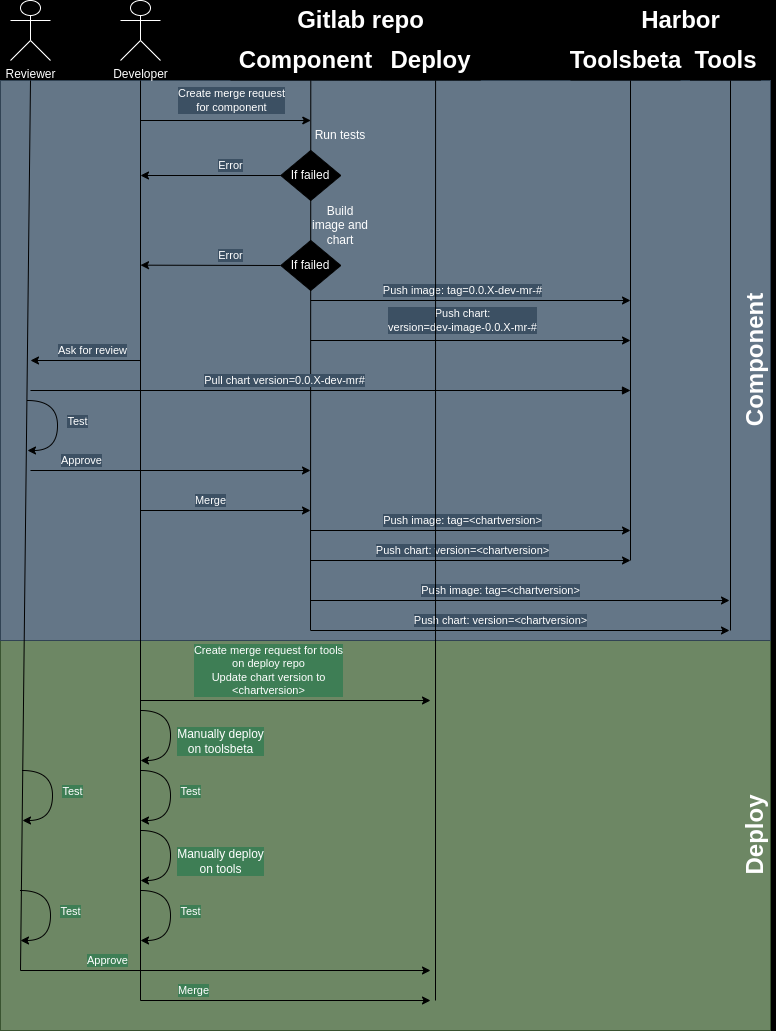
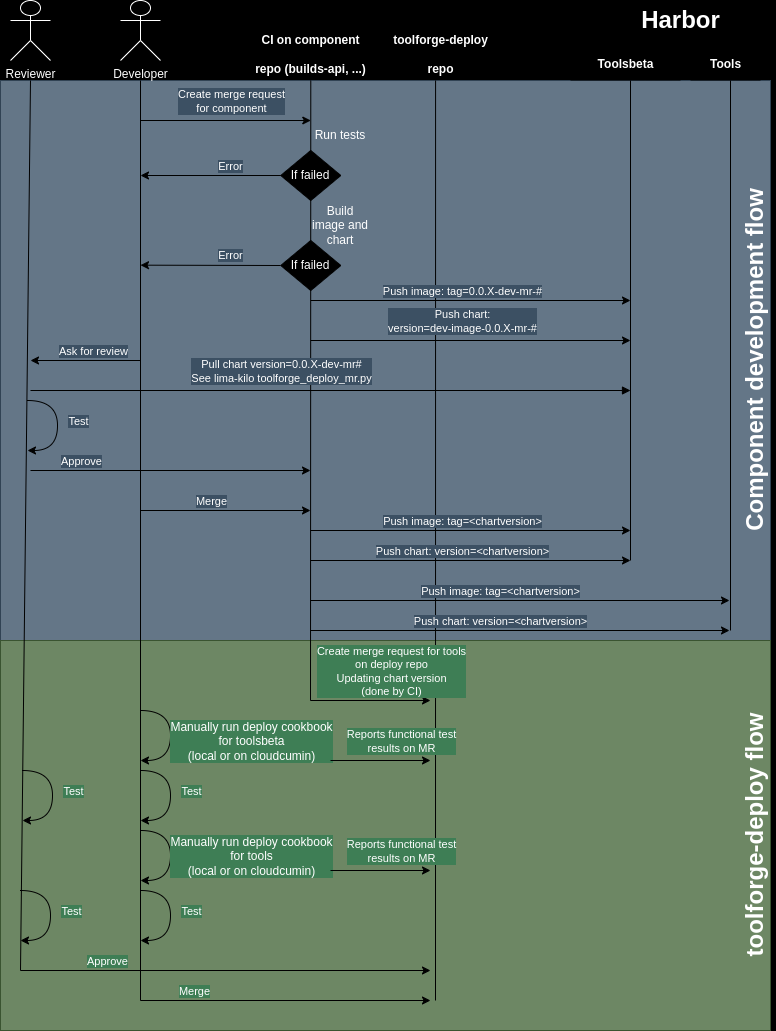
README: updated the development lifecycle diagram
And a bit the readme.

diff --git a/README.md b/README.md
@@ -14,6 +14,9 @@ Every chart version is bound to its own image tag.
 This is implemented in the cicd/gitlab-ci repository:
 <https://gitlab.wikimedia.org/repos/cloud/cicd/gitlab-ci/>
 
+See the
+[original proposal](https://wikitech.wikimedia.org/wiki/Wikimedia_Cloud_Services_team/EnhancementProposals/Toolforge_Kubernetes_component_workflow_improvements).
+
 ## Deploying locally/by hand
 
 Useful if you have your local minikube/kind for testing (see also
